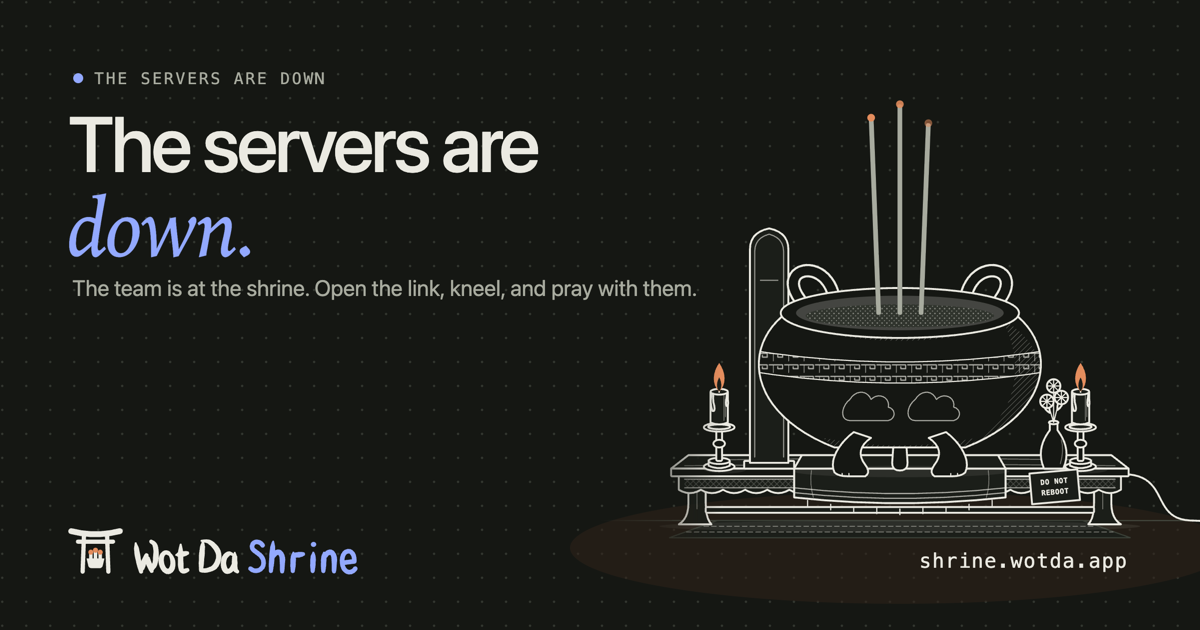
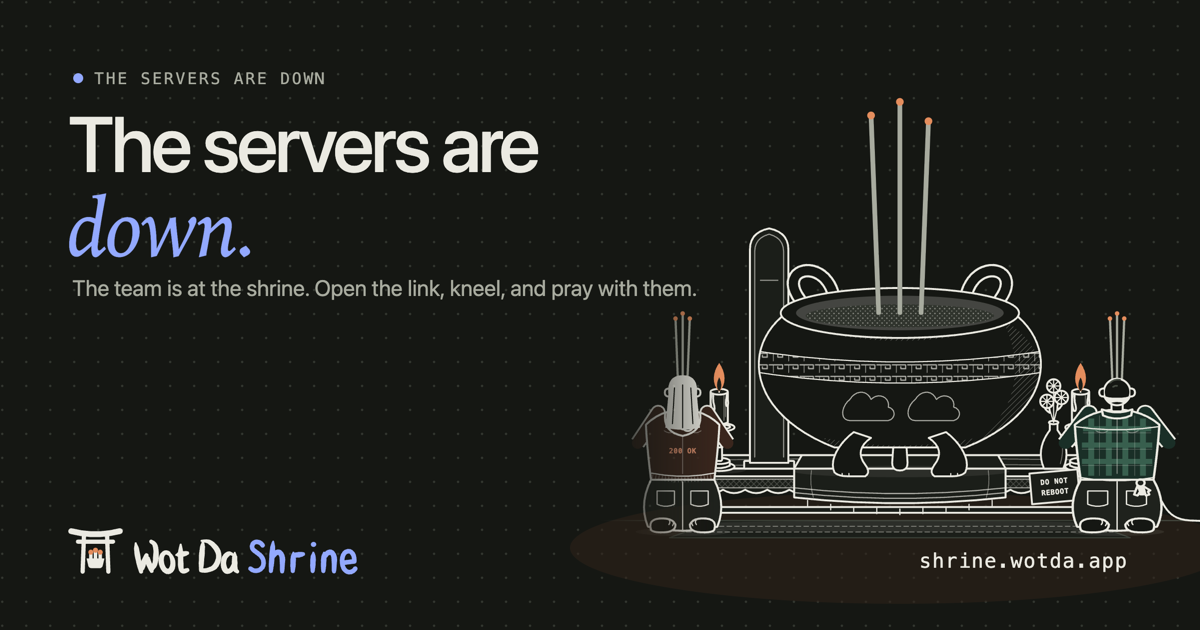
Put people in the link previews: og.png, og-down.png and og-back.png showed an empty altar, since previewCard draws no one; the card now takes kneelers (looks from devotee.js) and draws them kneeling at the altar, backs to us, incense lit, on the closest mats as the congregation lays them, and previ

Changed region(s): [[0.8633, 0.4825, 0.9867, 0.8444], [0.5242, 0.4825, 0.6167, 0.8444]]

diff --git a/src/lib/share.js b/src/lib/share.js
@@ -11,6 +11,7 @@
 import qrcode from 'qrcode-generator';
 import { t } from './strings.js';
 import { fill } from '../../shared/fill.js';
+import { kneeling } from '../scene/devotee.js';
 
 /** A string from STRINGS with its {placeholders} filled: one line, or a headline's two. */
 const say = (key, vars = {}) => {
@@ -22,7 +23,7 @@ const W = 1200;
 const H = 630;
 const SCALE = 2; // retina PNG
 
-const TOKENS = ['paper', 'paper-raised', 'paper-sunk', 'ink', 'muted', 'line', 'line-strong', 'sheet-line', 'accent', 'accent-soft', 'note-ink', 'ember', 'ember-soft', 'ember-ink', 'flame', 'live', 'sheet-label', 'tone-1-soft', 'tone-2-soft', 'tone-3-soft'];
+const TOKENS = ['paper', 'paper-raised', 'paper-sunk', 'ink', 'muted', 'line', 'line-strong', 'sheet-line', 'accent', 'accent-soft', 'note-ink', 'ember', 'ember-soft', 'ember-ink', 'flame', 'live', 'sheet-label', 'tone-1-soft', 'tone-2-soft', 'tone-3-soft', 'tone-1', 'tone-2', 'tone-3'];
 const SANS = `ui-sans-serif, system-ui, -apple-system, 'Segoe UI', Roboto, 'Helvetica Neue', Arial, sans-serif`;
 const SERIF = `'Iowan Old Style', 'Palatino Linotype', Palatino, Charter, Georgia, 'Times New Roman', serif`;
 const MONO = `ui-monospace, 'SF Mono', Menlo, Consolas, 'Liberation Mono', monospace`;
@@ -88,6 +89,32 @@ function drawingCss(c) {
     .temple-copy .t-note { font-size: 13px; fill: ${c.muted}; }
     .temple-copy .t-banner .d-mono { font-size: 18px; font-weight: 700; }
     .temple-copy .t-sign-big { font-size: 13px; font-weight: 700; letter-spacing: .08em; }
+    .kneeler__halo { display: none; }
+    .kneeler__ember { fill: ${c.flame}; opacity: 1; }
+    .kneeler__stick { fill: none; stroke: ${c.muted}; stroke-width: 2.2; stroke-linecap: round; }
+    .t-hair, .t-beret { fill: ${c.ink}; stroke: none; }
+    .t-shine { fill: none; stroke: ${c['line-strong']}; stroke-width: 1.6; stroke-linecap: round; }
+    .t-sleeve { fill: none; stroke: ${c.paper}; stroke-linecap: round; stroke-linejoin: round; }
+    .t-shirtsleeve { fill: none; stroke: ${c['paper-raised']}; stroke-linecap: round; stroke-linejoin: round; }
+    .tink { fill: ${c.muted}; }
+    .t-plaid, .t-lanyard { fill: none; stroke: ${c.muted}; }
+    ${[1, 2, 3].map((n) => `[data-tone="${n}"] .t-sleeve { stroke: ${c[`tone-${n}-soft`]}; } [data-tone="${n}"] .tink { fill: ${c[`tone-${n}`]}; } [data-tone="${n}"] :is(.t-plaid, .t-lanyard) { stroke: ${c[`tone-${n}`]}; }`).join('\n    ')}
+    .t-plaid { opacity: .3; }
+    .t-twill { fill: none; stroke: ${c.ink}; stroke-width: .6; opacity: .3; }
+    .t-rib { fill: none; stroke: ${c.ink}; stroke-width: 5; stroke-dasharray: .8 2.4; opacity: .35; }
+    .t-lanyard { stroke-width: 2.6; stroke-linecap: round; }
+    .t-beads { fill: none; stroke: ${c.ink}; stroke-width: 3.6; stroke-dasharray: .01 4.4; stroke-linecap: round; }
+    .t-spinner { fill: none; stroke: ${c.ink}; stroke-width: 2; stroke-dasharray: 4 3.4; }
+    .t-pom { stroke-dasharray: 1.6 1.4; }
+    .t-print { font-family: ${MONO}; font-size: 7px; font-weight: 700; letter-spacing: .04em; }
+    .t-nines { font-family: ${MONO}; font-size: 6.5px; font-weight: 700; }
+    .t-tiny, .t-sticker { font-family: ${MONO}; font-size: 4.4px; font-weight: 700; fill: ${c.ink}; }
+    .t-sticky { font-family: ${MONO}; font-size: 4px; font-weight: 700; fill: ${c.ink}; }
+    .t-dark { fill: ${c.ink}; stroke: ${c.ink}; stroke-width: 2; stroke-linejoin: round; }
+    .t-dark-line { fill: none; stroke: ${c.paper}; stroke-width: .9; stroke-linecap: round; opacity: .55; }
+    .t-darksleeve { fill: none; stroke: ${c.ink}; stroke-linecap: round; stroke-linejoin: round; }
+    .t-pants { fill: none; stroke: ${c['paper-sunk']}; stroke-linecap: round; stroke-linejoin: round; }
+    .t-comb { fill: none; stroke: ${c.ink}; stroke-width: .9; stroke-linecap: round; }
     .brand__wot { fill: ${c.ink}; }
     .brand__shrine { color: ${c.accent}; }
     .brand__gate, .brand__sticks { stroke: ${c.ink}; }
@@ -110,7 +137,18 @@ function wrap(text, max, lines = 2) {
 }
 
 /** Strip the live altar of anything that would not survive as a standalone SVG. `plain` also clears the tablet (a picture for every room). */
-function altarMarkup(host, plain = false) {
+/**
+ * People kneeling at the altar, backs to us, incense raised, laid out as the congregation lays them
+ * (congregation.js): the closest pair either side of the middle first, in the burner's units, feet on its floor.
+ */
+function kneelersMarkup(looks = []) {
+  return looks.map((look, i) => {
+    const x = 260 + (i % 2 ? 1 : -1) * (226 + Math.floor(i / 2) * 76);
+    return `<g data-tone="${look.tone}" transform="translate(${x} 460.6) scale(1.062)">${kneeling('kneeler', { look })}</g>`;
+  }).join('');
+}
+
+function altarMarkup(host, plain = false, kneelers = []) {
   const svgs = [...host.querySelectorAll('svg.burner__svg')];
   const inner = svgs.map((svg) => {
     const copy = svg.cloneNode(true);
@@ -125,7 +163,8 @@ function altarMarkup(host, plain = false) {
   // The shrine around the altar (temple.js), in the same units, kept to the card's right side so the words stay clear.
   const temple = document.querySelector('.temple__svg');
   const around = temple ? `<svg class="temple-copy" x="-440" y="-300" width="1400" height="770" viewBox="${temple.getAttribute('viewBox')}" overflow="visible">${temple.innerHTML}</svg>` : '';
-  return `<g mask="url(#altarSide)"><svg viewBox="0 0 520 470" x="650" y="86" width="500" height="452" overflow="visible" data-level="${level}" data-resolved="${resolved}">${around}${inner}</svg></g>`;
+  const people = kneelersMarkup(kneelers);
+  return `<g mask="url(#altarSide)"><svg viewBox="0 0 520 470" x="650" y="86" width="500" height="452" overflow="visible" data-level="${level}" data-resolved="${resolved}">${around}${inner}${people}</svg></g>`;
 }
 
 /**
@@ -147,7 +186,8 @@ const fit = (text, base, width, em) => Math.min(base, Math.floor(width / (Math.m
 /**
  * Build the card. `data`:
  *   room, title, resolved, open (a vigil is on), quietDays (nothing down: whole days without an incident, else null), people (count), avatars (emoji), minutes, karma, prayers (count),
- *   incense (count), quotes [{text, name}], url (as shown), link (the full address, drawn as a QR when given);
+ *   incense (count), quotes [{text, name}], url (as shown), link (the full address, drawn as a QR when given),
+ *   kneelers (looks from devotee.js's lookOf, drawn kneeling at the altar);
  *   `eyebrow`, `headline` [line1, line2] and `facts` override
  *   what the state would say (the link preview images are drawn this way).
  */
@@ -155,7 +195,7 @@ export function cardSvg(data) {
   const c = palette();
   const brandMark = document.querySelector('.brand__mark')?.outerHTML ?? '';
   const brandWord = document.querySelector('.brand__word')?.outerHTML ?? '';
-  const altar = altarMarkup(document.querySelector('#burner-art'), Boolean(data.plain));
+  const altar = altarMarkup(document.querySelector('#burner-art'), Boolean(data.plain), data.kneelers);
 
   const eyebrow = data.eyebrow ?? say('cardEyebrow', { room: data.room });
   const title = headline(data);

diff --git a/src/app/shareSheet.js b/src/app/shareSheet.js
@@ -11,6 +11,7 @@ import { openPanel } from './settings.js';
 import { copyText, toast } from './ui.js';
 import { kamiMoodNow } from './kami.js';
 import { quietDays } from './quiet.js';
+import { lookOf } from '../scene/devotee.js';
 
 /* ---------- Share sheet: invite the team, and a picture of the shrine to post ---------- */
 const shareEl = $('#share');
@@ -81,9 +82,12 @@ const PREVIEWS = {
   down: { eyebrow: 'THE SERVERS ARE DOWN', headline: ['The servers are', 'down.'], facts: 'The team is at the shrine. Open the link, kneel, and pray with them.' },
   back: { eyebrow: 'THE SERVERS ARE BACK', headline: ['The servers are', 'back.'], facts: 'The vigil is over. Come and see what the team prayed for.' },
 };
+/** Who kneels in the pictures: the same two of the team every time, the closest mats (the next pair would sit past the card's edge). */
+const PREVIEW_CAST = [['dev', 1], ['devops', 2]];
 export async function previewCard(kind) {
   const svg = cardSvg({
     room: '', resolved: kind === 'back', people: 0, avatars: [], quotes: [], url: 'shrine.wotda.app', plain: true,
+    kneelers: PREVIEW_CAST.map(([role, tone]) => lookOf(`preview:${role}`, role, tone)),
     ...(PREVIEWS[kind] ?? PREVIEWS.down),
   });
   return cardPng(svg);
